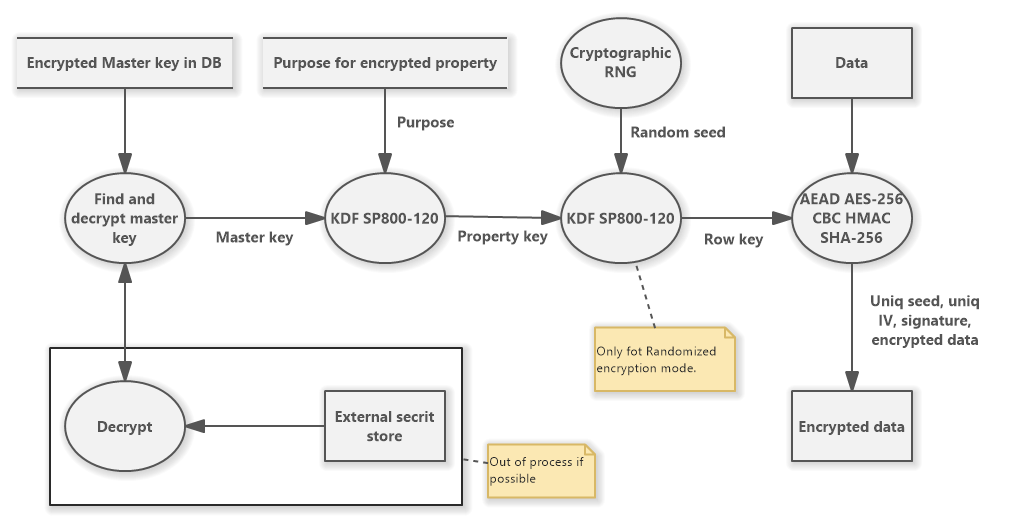
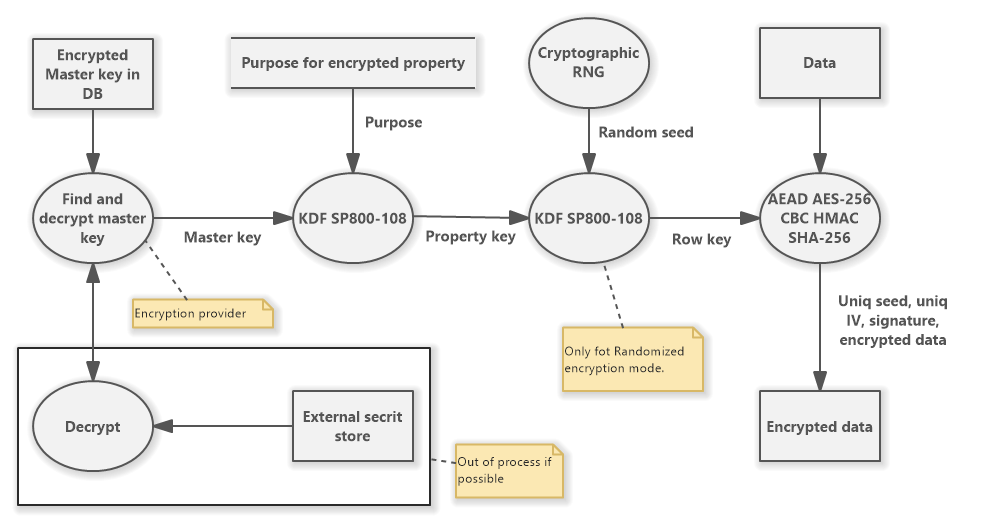
#2 Fix names in Readme.

diff --git a/README.md b/README.md
@@ -9,7 +9,7 @@ _Harrison314.EntityFrameworkCore.Encryption_ is a [Microsoft Entity Framework Co
 * Key rotation.
 * Simple for use.
 * Deterministic or rnadomized encryption.
-* Build on standard cryptographic algorithms (AES, HMAC SHA, SP800-120, PBKDF-2,...).
+* Build on standard cryptographic algorithms (AES, HMAC SHA, SP800-108, PBKDF-2,...).
 * Internal or external (out of process or on another server e.c. Azure Key Valut) encryption providers.
 * Encryption providers:
   * Password (only for testyng),
